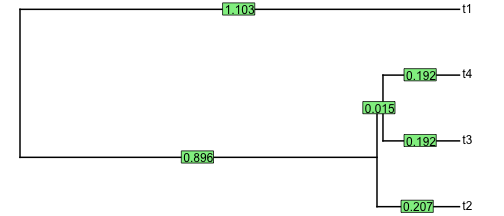
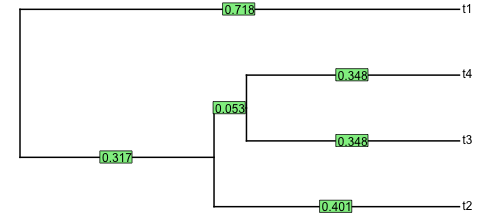
scrolling update

Changed region(s): [[0.3571, 0.3056, 0.8929, 1.0], [0.1786, 0.6944, 0.2679, 0.7778], [0.4464, 0.0278, 0.506, 0.0833]]

diff --git a/GMcourse/Lectures/06-ShapeStatistics1.html b/GMcourse/Lectures/06-ShapeStatistics1.html
@@ -267,8 +267,8 @@ PCA$rot[, 1:5]
 ```
 
 
-<div class="datatables html-widget html-fill-item" id="htmlwidget-35f1b486929b9639521a" style="width:100%;height:auto;"></div>
-<script type="application/json" data-for="htmlwidget-35f1b486929b9639521a">{"x":{"filter":"none","vertical":false,"fillContainer":false,"data":[["1.X","1.Y","2.X","2.Y","3.X","3.Y","4.X","4.Y","5.X","5.Y","6.X","6.Y","7.X","7.Y","8.X","8.Y","9.X","9.Y","10.X","10.Y","11.X","11.Y","12.X","12.Y"],[-0.18519,0.05405,-0.25751,0.12104,0.24555,0.08671,0.01913,0.01574,0.03013,-0.06,0.03942,-0.07298,-0.03292,-0.15883,-0.07436,-0.02267,-0.1294,0.14563,-0.14615,0.04686,0.78142,-0.05272,-0.29012,-0.10285],[0.44578,0.26015,0.14487,0.35368,0.06079,0.15116,-0.00471,-0.10675,-0.04475,-0.10706,-0.02427,-0.16916,-0.14499,-0.08201,-0.0491,-0.01583,0.0163,0.10257,0.07706,0.13217,-0.18989,0.04808,-0.28709,-0.56701],[0.22986,-0.08275,0.21506,0.10056,0.32681,0.00228,-0.20322,0.35931,-0.19877,0.15439,-0.17122,0.009809999999999999,-0.21542,-0.18189,0.06254,-0.16576,0.18179,-0.23899,0.07886,-0.13614,0.01087,-0.20317,-0.31717,0.38235],[-0.26247,0.11272,-0.01087,0.46841,0.47658,-0.04908,-0.11434,-0.00444,-0.05717,0.12899,0.1062,0.0582,0.08944000000000001,0.01527,-0.1435,-0.17252,-0.17443,-0.1315,-0.16718,-0.21664,-0.17314,-0.06654,0.43089,-0.14288],[-0.16719,0.22104,0.02176,-0.25447,0.44786,0.02916,-0.0437,-0.44113,-0.16144,-0.22846,-0.05394,0.14802,0.0188,0.27939,-0.08595,0.08477999999999999,0.38216,0.11626,-0.05794,0.12139,-0.12552,-0.17414,-0.1749,0.09816]],"container":"<table class=\"display\">\n  <thead>\n    <tr>\n      <th> <\/th>\n      <th>Comp1<\/th>\n      <th>Comp2<\/th>\n      <th>Comp3<\/th>\n      <th>Comp4<\/th>\n      <th>Comp5<\/th>\n    <\/tr>\n  <\/thead>\n<\/table>","options":{"pageLength":3,"columnDefs":[{"className":"dt-right","targets":[1,2,3,4,5]},{"orderable":false,"targets":0},{"name":" ","targets":0},{"name":"Comp1","targets":1},{"name":"Comp2","targets":2},{"name":"Comp3","targets":3},{"name":"Comp4","targets":4},{"name":"Comp5","targets":5}],"order":[],"autoWidth":false,"orderClasses":false,"lengthMenu":[3,10,25,50,100]}},"evals":[],"jsHooks":[]}</script>
+<div class="datatables html-widget html-fill-item" id="htmlwidget-629bb322cf02ad5a71c1" style="width:100%;height:auto;"></div>
+<script type="application/json" data-for="htmlwidget-629bb322cf02ad5a71c1">{"x":{"filter":"none","vertical":false,"fillContainer":false,"data":[["1.X","1.Y","2.X","2.Y","3.X","3.Y","4.X","4.Y","5.X","5.Y","6.X","6.Y","7.X","7.Y","8.X","8.Y","9.X","9.Y","10.X","10.Y","11.X","11.Y","12.X","12.Y"],[-0.18519,0.05405,-0.25751,0.12104,0.24555,0.08671,0.01913,0.01574,0.03013,-0.06,0.03942,-0.07298,-0.03292,-0.15883,-0.07436,-0.02267,-0.1294,0.14563,-0.14615,0.04686,0.78142,-0.05272,-0.29012,-0.10285],[0.44578,0.26015,0.14487,0.35368,0.06079,0.15116,-0.00471,-0.10675,-0.04475,-0.10706,-0.02427,-0.16916,-0.14499,-0.08201,-0.0491,-0.01583,0.0163,0.10257,0.07706,0.13217,-0.18989,0.04808,-0.28709,-0.56701],[0.22986,-0.08275,0.21506,0.10056,0.32681,0.00228,-0.20322,0.35931,-0.19877,0.15439,-0.17122,0.009809999999999999,-0.21542,-0.18189,0.06254,-0.16576,0.18179,-0.23899,0.07886,-0.13614,0.01087,-0.20317,-0.31717,0.38235],[-0.26247,0.11272,-0.01087,0.46841,0.47658,-0.04908,-0.11434,-0.00444,-0.05717,0.12899,0.1062,0.0582,0.08944000000000001,0.01527,-0.1435,-0.17252,-0.17443,-0.1315,-0.16718,-0.21664,-0.17314,-0.06654,0.43089,-0.14288],[-0.16719,0.22104,0.02176,-0.25447,0.44786,0.02916,-0.0437,-0.44113,-0.16144,-0.22846,-0.05394,0.14802,0.0188,0.27939,-0.08595,0.08477999999999999,0.38216,0.11626,-0.05794,0.12139,-0.12552,-0.17414,-0.1749,0.09816]],"container":"<table class=\"display\">\n  <thead>\n    <tr>\n      <th> <\/th>\n      <th>Comp1<\/th>\n      <th>Comp2<\/th>\n      <th>Comp3<\/th>\n      <th>Comp4<\/th>\n      <th>Comp5<\/th>\n    <\/tr>\n  <\/thead>\n<\/table>","options":{"pageLength":3,"columnDefs":[{"className":"dt-right","targets":[1,2,3,4,5]},{"orderable":false,"targets":0},{"name":" ","targets":0},{"name":"Comp1","targets":1},{"name":"Comp2","targets":2},{"name":"Comp3","targets":3},{"name":"Comp4","targets":4},{"name":"Comp5","targets":5}],"order":[],"autoWidth":false,"orderClasses":false,"lengthMenu":[3,10,25,50,100]}},"evals":[],"jsHooks":[]}</script>
 ]
 
 ---
@@ -1189,10 +1189,10 @@ is an analysis that finds phylogenetically aligned components of the data (most 
 
 ```
 ##       t2    t3    t4    t1
-## t2 1.103 0.896 0.896 0.000
-## t3 0.896 1.103 0.911 0.000
-## t4 0.896 0.911 1.103 0.000
-## t1 0.000 0.000 0.000 1.103
+## t2 0.718 0.317 0.317 0.000
+## t3 0.317 0.718 0.370 0.000
+## t4 0.317 0.370 0.718 0.000
+## t1 0.000 0.000 0.000 0.718
 ```
 ]
 
